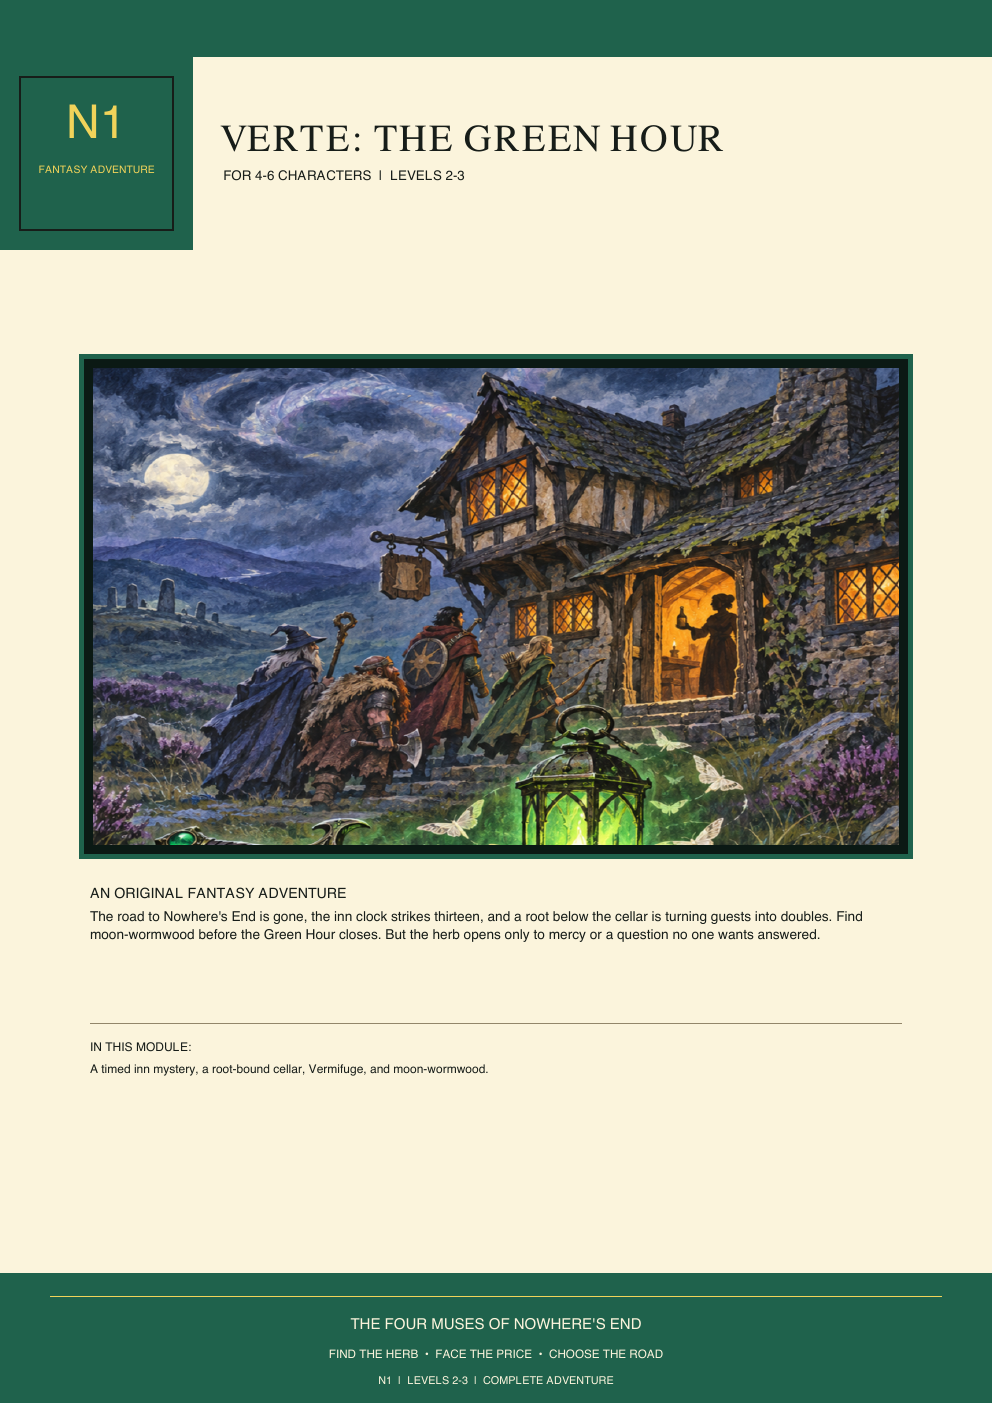
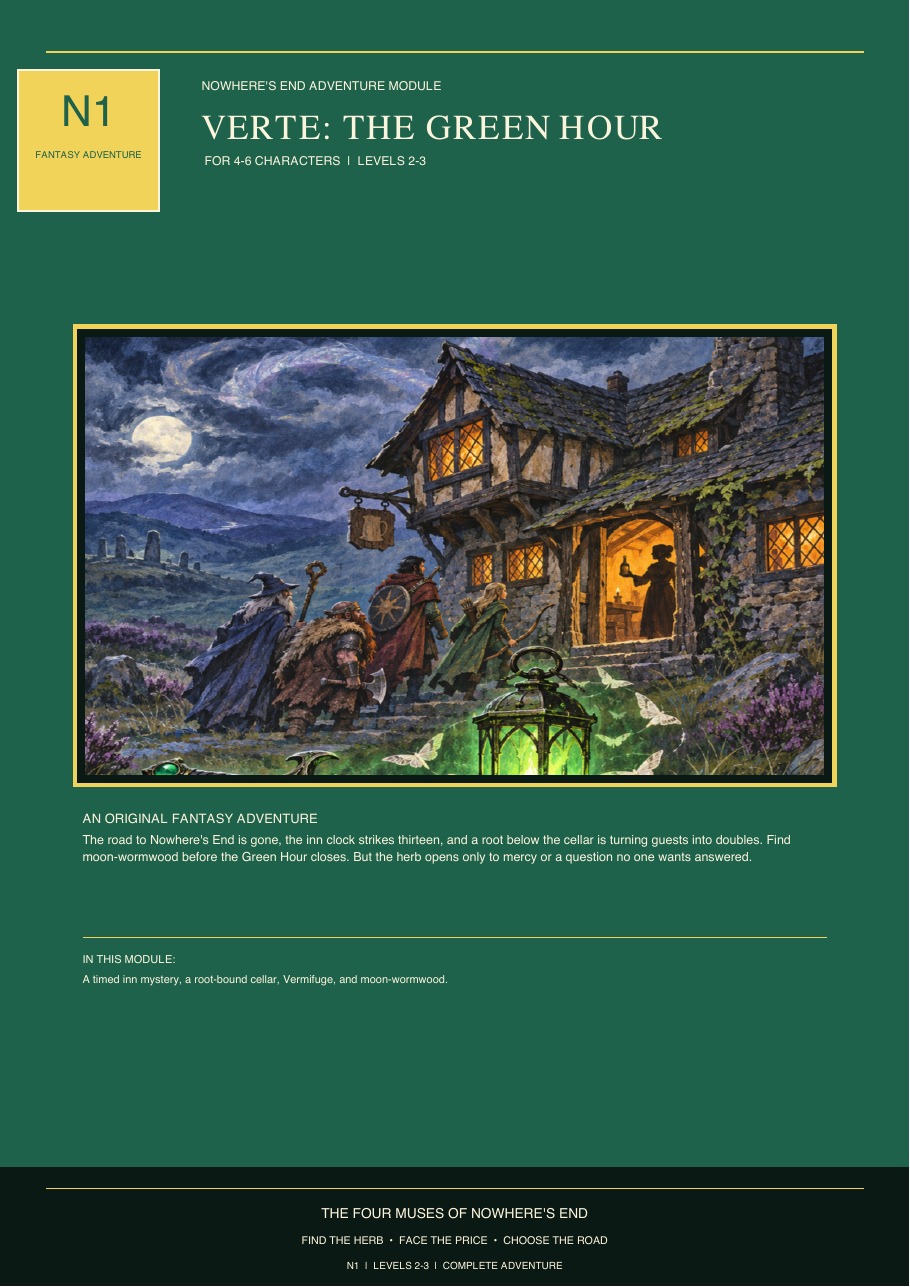
Use liquor-color fields on module covers

diff --git a/scripts/build_muse_modules.py b/scripts/build_muse_modules.py
@@ -101,32 +101,32 @@ def wrap(text, font, size, width):
 
 def cover(c, code, title, art_name, field, accent):
     field, accent, cream, ink = HexColor(field), HexColor(accent), HexColor("#fbf4dc"), HexColor("#171d19")
-    # Original period-module grammar: information-heavy cream header, code flag,
-    # framed scene, descriptive copy, and a color-field publisher band.
-    c.setFillColor(cream); c.rect(0, 0, W, H, fill=1, stroke=0)
-    c.setFillColor(field); c.rect(0, H-34, W, 34, fill=1, stroke=0)
-    c.setFillColor(field); c.rect(0, H-150, 116, 116, fill=1, stroke=0)
-    c.setStrokeColor(ink); c.setLineWidth(1.2); c.rect(12, H-138, 92, 92, fill=0, stroke=1)
-    c.setFillColor(accent); c.setFont("Helvetica-Bold", 28); c.drawCentredString(58, H-83, code)
+    # Each module wears its absinthe color all the way to the trim; the framed
+    # illustration and pale ink retain the dense period-module information grammar.
+    c.setFillColor(field); c.rect(0, 0, W, H, fill=1, stroke=0)
+    c.setStrokeColor(accent); c.setLineWidth(.8); c.line(30, H-34, W-30, H-34)
+    c.setFillColor(accent); c.rect(12, H-138, 92, 92, fill=1, stroke=0)
+    c.setStrokeColor(cream); c.setLineWidth(1.2); c.rect(12, H-138, 92, 92, fill=0, stroke=1)
+    c.setFillColor(field); c.setFont("Helvetica-Bold", 28); c.drawCentredString(58, H-83, code)
     c.setFont("Helvetica-Bold", 6.2); c.drawCentredString(58, H-104, "FANTASY ADVENTURE")
     c.setFillColor(cream); c.setFont("Helvetica-Bold", 8); c.drawString(132, H-59, "NOWHERE'S END ADVENTURE MODULE")
-    c.setFillColor(ink); c.setFont("Times-Bold", 23); c.drawString(132, H-91, title.upper())
+    c.setFont("Times-Bold", 23); c.drawString(132, H-91, title.upper())
     c.setFont("Helvetica-Bold", 8); c.drawString(134, H-108, "FOR 4-6 CHARACTERS  |  " + LEVELS[code])
     c.setFillColor(HexColor("#0b1914")); c.rect(49, 328, W-98, 300, fill=1, stroke=0)
     c.drawImage(ImageReader(str(ROOT / "assets" / "illustrations" / art_name)), 56, 335, width=W-112, height=286, preserveAspectRatio=False)
-    c.setStrokeColor(field); c.setLineWidth(3); c.rect(49, 328, W-98, 300, fill=0, stroke=1)
-    c.setFillColor(ink); c.setFont("Helvetica-Bold", 8.5); c.drawString(54, 303, "AN ORIGINAL FANTASY ADVENTURE")
+    c.setStrokeColor(accent); c.setLineWidth(3); c.rect(49, 328, W-98, 300, fill=0, stroke=1)
+    c.setFillColor(cream); c.setFont("Helvetica-Bold", 8.5); c.drawString(54, 303, "AN ORIGINAL FANTASY ADVENTURE")
     c.setFont("Helvetica", 8.2); y = 289
     for line in wrap(PLAY_AIDS[code]["blurb"], "Helvetica", 8.2, W-108):
         c.drawString(54, y, line); y -= 11
-    c.setStrokeColor(HexColor("#92866a")); c.setLineWidth(.6); c.line(54, 228, W-54, 228)
-    c.setFillColor(ink); c.setFont("Helvetica-Bold", 7.2); c.drawString(54, 211, "IN THIS MODULE:")
+    c.setStrokeColor(accent); c.setLineWidth(.6); c.line(54, 228, W-54, 228)
+    c.setFillColor(cream); c.setFont("Helvetica-Bold", 7.2); c.drawString(54, 211, "IN THIS MODULE:")
     c.setFont("Helvetica", 7.2)
     contents = {"N1": "A timed inn mystery, a root-bound cellar, Vermifuge, and moon-wormwood.", "N2": "A vanished village, three impossible crossings, a ferryman, and glass fennel.", "N3": "A thorned feast, masks of desire, an accounting, and rose anise.", "N4": "A road-crawl, the Dream-Wyrm, four protections, and wayfarer's balm."}[code]
     cy = 198
     for line in wrap(contents, "Helvetica", 7.2, W-108):
         c.drawString(54, cy, line); cy -= 9
-    c.setFillColor(field); c.rect(0, 0, W, 78, fill=1, stroke=0)
+    c.setFillColor(HexColor("#0b1914")); c.rect(0, 0, W, 78, fill=1, stroke=0)
     c.setStrokeColor(accent); c.setLineWidth(1); c.line(30, 64, W-30, 64)
     c.setFillColor(cream); c.setFont("Helvetica-Bold", 9); c.drawCentredString(W/2, 44, "THE FOUR MUSES OF NOWHERE'S END")
     c.setFont("Helvetica", 7); c.drawCentredString(W/2, 27, "FIND THE HERB  •  FACE THE PRICE  •  CHOOSE THE ROAD")
